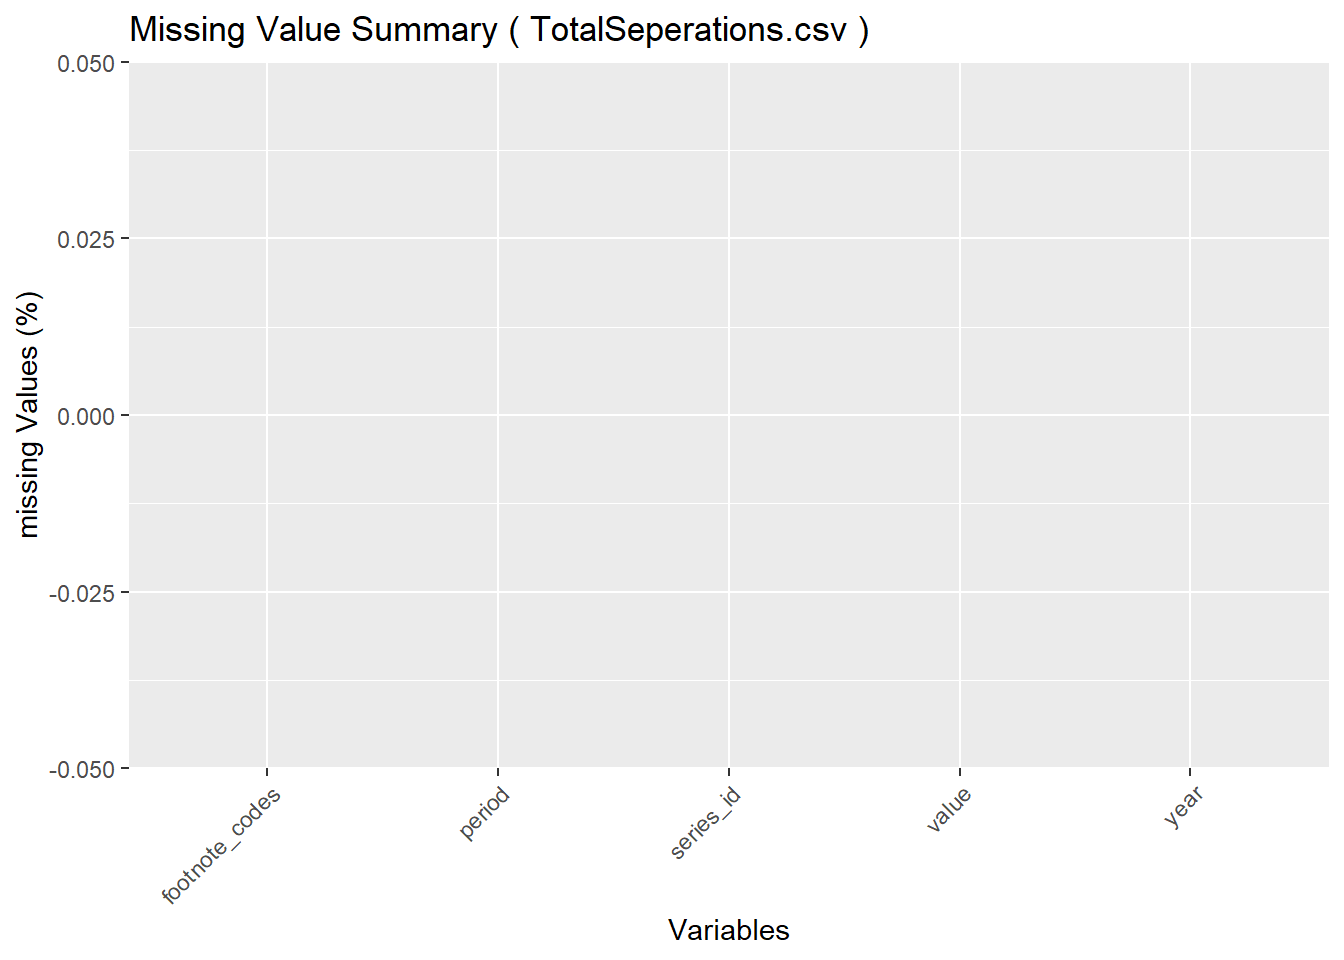
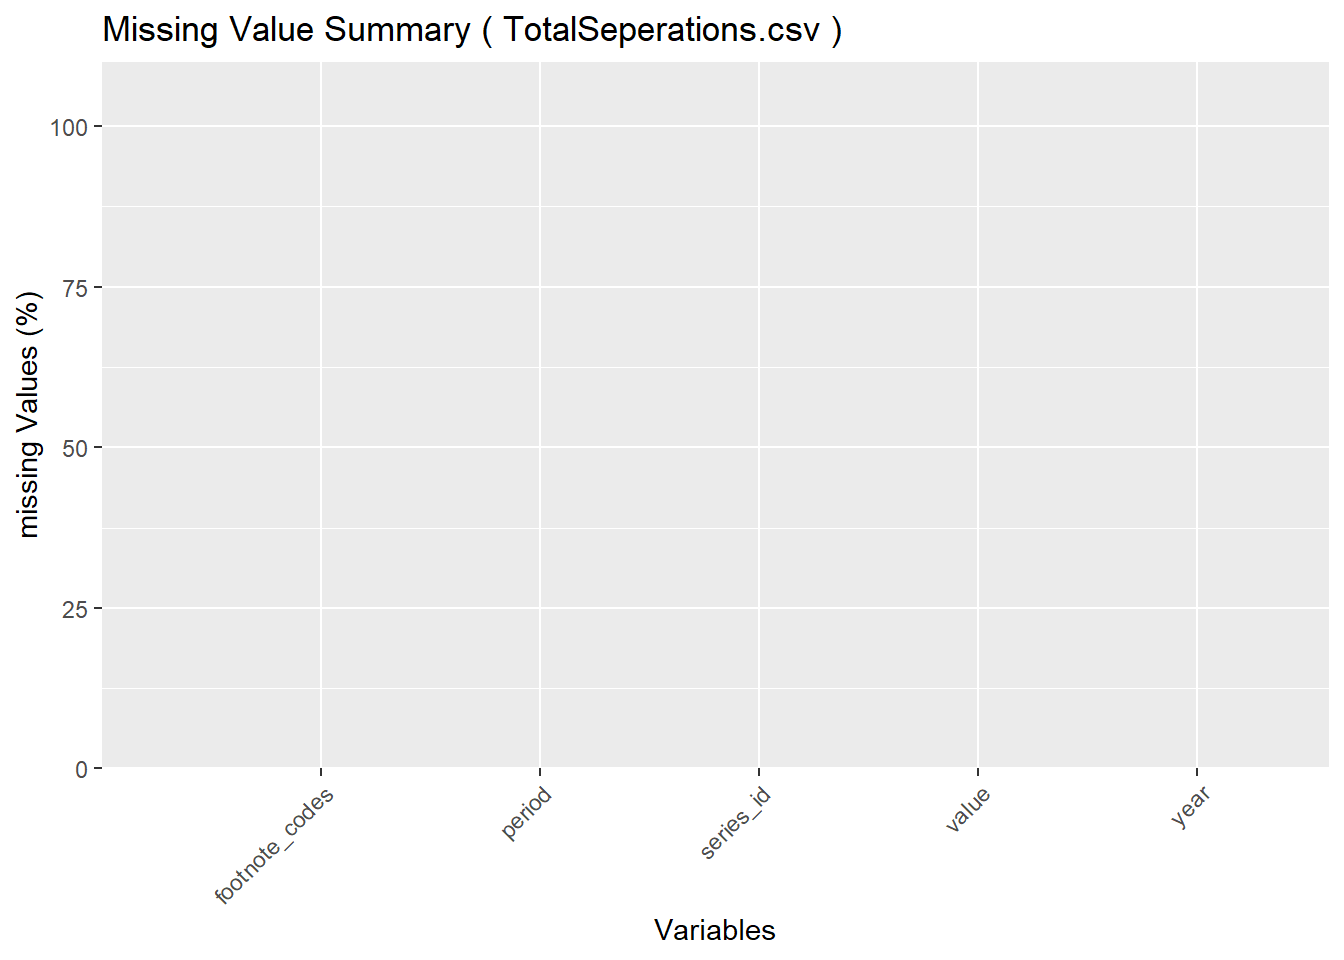
updated research plan and render

diff --git a/docs/data.html b/docs/data.html
@@ -273,23 +273,26 @@ pre > code.sourceCode > span > a:first-child::before { text-decoration: underlin
 <span id="cb3-6"><a href="#cb3-6" aria-hidden="true" tabindex="-1"></a>  data <span class="ot">&lt;-</span> <span class="fu">read.csv</span>(file)</span>
 <span id="cb3-7"><a href="#cb3-7" aria-hidden="true" tabindex="-1"></a></span>
 <span id="cb3-8"><a href="#cb3-8" aria-hidden="true" tabindex="-1"></a>  csv_file_name <span class="ot">&lt;-</span> <span class="fu">strsplit</span>(file, <span class="st">"/"</span>)[[<span class="dv">1</span>]][<span class="dv">3</span>]</span>
-<span id="cb3-9"><a href="#cb3-9" aria-hidden="true" tabindex="-1"></a></span>
-<span id="cb3-10"><a href="#cb3-10" aria-hidden="true" tabindex="-1"></a>  missing_summary <span class="ot">&lt;-</span> data <span class="sc">%&gt;%</span></span>
-<span id="cb3-11"><a href="#cb3-11" aria-hidden="true" tabindex="-1"></a>    <span class="fu">summarise_all</span>(<span class="sc">~</span> <span class="fu">mean</span>(<span class="fu">is.na</span>(.)) <span class="sc">*</span> <span class="dv">100</span>) <span class="sc">%&gt;%</span></span>
-<span id="cb3-12"><a href="#cb3-12" aria-hidden="true" tabindex="-1"></a>    <span class="fu">gather</span>(<span class="at">key =</span> <span class="st">"variable"</span>, <span class="at">value =</span> <span class="st">"missing_percentage"</span>) <span class="sc">%&gt;%</span></span>
-<span id="cb3-13"><a href="#cb3-13" aria-hidden="true" tabindex="-1"></a>    <span class="fu">arrange</span>(<span class="fu">desc</span>(missing_percentage))</span>
-<span id="cb3-14"><a href="#cb3-14" aria-hidden="true" tabindex="-1"></a></span>
-<span id="cb3-15"><a href="#cb3-15" aria-hidden="true" tabindex="-1"></a>  missing_value_graph <span class="ot">&lt;-</span> <span class="fu">ggplot</span>(missing_summary, <span class="fu">aes</span>(<span class="at">x =</span> <span class="fu">reorder</span>(variable, <span class="sc">-</span>missing_percentage), <span class="at">y =</span> missing_percentage)) <span class="sc">+</span></span>
-<span id="cb3-16"><a href="#cb3-16" aria-hidden="true" tabindex="-1"></a>    <span class="fu">geom_bar</span>(<span class="at">stat =</span> <span class="st">"identity"</span>, <span class="at">fill =</span> <span class="st">"skyblue"</span>) <span class="sc">+</span></span>
-<span id="cb3-17"><a href="#cb3-17" aria-hidden="true" tabindex="-1"></a>    <span class="fu">geom_text</span>(<span class="at">data =</span> <span class="fu">subset</span>(missing_summary, missing_percentage <span class="sc">!=</span> <span class="dv">0</span>),</span>
-<span id="cb3-18"><a href="#cb3-18" aria-hidden="true" tabindex="-1"></a>              <span class="fu">aes</span>(<span class="at">label =</span> <span class="fu">round</span>(missing_percentage, <span class="dv">1</span>)), <span class="at">vjust =</span> <span class="sc">-</span><span class="fl">0.5</span>, <span class="at">size =</span> <span class="dv">3</span>) <span class="sc">+</span></span>
-<span id="cb3-19"><a href="#cb3-19" aria-hidden="true" tabindex="-1"></a>    <span class="fu">labs</span>(<span class="at">title =</span> <span class="fu">paste</span>(<span class="st">"Missing Value Summary ("</span>, csv_file_name,<span class="st">")"</span>),</span>
-<span id="cb3-20"><a href="#cb3-20" aria-hidden="true" tabindex="-1"></a>         <span class="at">x =</span> <span class="st">"Variables"</span>,</span>
-<span id="cb3-21"><a href="#cb3-21" aria-hidden="true" tabindex="-1"></a>         <span class="at">y =</span> <span class="st">"missing Values (%)"</span>)<span class="sc">+</span></span>
-<span id="cb3-22"><a href="#cb3-22" aria-hidden="true" tabindex="-1"></a>    <span class="fu">theme</span>(<span class="at">axis.text.x =</span> <span class="fu">element_text</span>(<span class="at">angle =</span> <span class="dv">45</span>, <span class="at">hjust =</span> <span class="dv">1</span>))</span>
-<span id="cb3-23"><a href="#cb3-23" aria-hidden="true" tabindex="-1"></a></span>
-<span id="cb3-24"><a href="#cb3-24" aria-hidden="true" tabindex="-1"></a>  <span class="fu">print</span>(missing_value_graph )</span>
-<span id="cb3-25"><a href="#cb3-25" aria-hidden="true" tabindex="-1"></a>}</span></code><button title="Copy to Clipboard" class="code-copy-button"><i class="bi"></i></button></pre></div>
+<span id="cb3-9"><a href="#cb3-9" aria-hidden="true" tabindex="-1"></a>  <span class="co"># print(csv_file_name)</span></span>
+<span id="cb3-10"><a href="#cb3-10" aria-hidden="true" tabindex="-1"></a></span>
+<span id="cb3-11"><a href="#cb3-11" aria-hidden="true" tabindex="-1"></a>  missing_summary <span class="ot">&lt;-</span> data <span class="sc">%&gt;%</span></span>
+<span id="cb3-12"><a href="#cb3-12" aria-hidden="true" tabindex="-1"></a>    <span class="fu">summarise_all</span>(<span class="sc">~</span> <span class="fu">mean</span>(<span class="fu">is.na</span>(.)) <span class="sc">*</span> <span class="dv">100</span>) <span class="sc">%&gt;%</span></span>
+<span id="cb3-13"><a href="#cb3-13" aria-hidden="true" tabindex="-1"></a>    <span class="fu">gather</span>(<span class="at">key =</span> <span class="st">"variable"</span>, <span class="at">value =</span> <span class="st">"missing_percentage"</span>) <span class="sc">%&gt;%</span></span>
+<span id="cb3-14"><a href="#cb3-14" aria-hidden="true" tabindex="-1"></a>    <span class="fu">arrange</span>(<span class="fu">desc</span>(missing_percentage))</span>
+<span id="cb3-15"><a href="#cb3-15" aria-hidden="true" tabindex="-1"></a></span>
+<span id="cb3-16"><a href="#cb3-16" aria-hidden="true" tabindex="-1"></a>  missing_value_graph <span class="ot">&lt;-</span> <span class="fu">ggplot</span>(missing_summary, <span class="fu">aes</span>(<span class="at">x =</span> <span class="fu">reorder</span>(variable, <span class="sc">-</span>missing_percentage), <span class="at">y =</span> missing_percentage)) <span class="sc">+</span></span>
+<span id="cb3-17"><a href="#cb3-17" aria-hidden="true" tabindex="-1"></a>    <span class="fu">geom_bar</span>(<span class="at">stat =</span> <span class="st">"identity"</span>, <span class="at">fill =</span> <span class="st">"skyblue"</span>, <span class="at">width=</span><span class="fl">0.5</span>) <span class="sc">+</span></span>
+<span id="cb3-18"><a href="#cb3-18" aria-hidden="true" tabindex="-1"></a>    <span class="fu">geom_text</span>(<span class="at">data =</span> <span class="fu">subset</span>(missing_summary, missing_percentage <span class="sc">!=</span> <span class="dv">0</span>),</span>
+<span id="cb3-19"><a href="#cb3-19" aria-hidden="true" tabindex="-1"></a>              <span class="fu">aes</span>(<span class="at">label =</span> <span class="fu">round</span>(missing_percentage, <span class="dv">1</span>)), <span class="at">vjust =</span> <span class="sc">-</span><span class="fl">0.5</span>, <span class="at">size =</span> <span class="dv">3</span>) <span class="sc">+</span></span>
+<span id="cb3-20"><a href="#cb3-20" aria-hidden="true" tabindex="-1"></a>    <span class="fu">labs</span>(<span class="at">title =</span> <span class="fu">paste</span>(<span class="st">"Missing Value Summary ("</span>, csv_file_name,<span class="st">")"</span>),</span>
+<span id="cb3-21"><a href="#cb3-21" aria-hidden="true" tabindex="-1"></a>         <span class="at">x =</span> <span class="st">"Variables"</span>,</span>
+<span id="cb3-22"><a href="#cb3-22" aria-hidden="true" tabindex="-1"></a>         <span class="at">y =</span> <span class="st">"missing Values (%)"</span>)<span class="sc">+</span></span>
+<span id="cb3-23"><a href="#cb3-23" aria-hidden="true" tabindex="-1"></a>    <span class="fu">theme</span>(<span class="at">axis.text.x =</span> <span class="fu">element_text</span>(<span class="at">angle =</span> <span class="dv">45</span>, <span class="at">hjust =</span> <span class="dv">1</span>))<span class="sc">+</span></span>
+<span id="cb3-24"><a href="#cb3-24" aria-hidden="true" tabindex="-1"></a>    <span class="fu">expand_limits</span>(<span class="at">x =</span> <span class="dv">0</span>, <span class="at">y =</span> <span class="dv">110</span>)<span class="sc">+</span></span>
+<span id="cb3-25"><a href="#cb3-25" aria-hidden="true" tabindex="-1"></a>    <span class="fu">scale_y_continuous</span>(<span class="at">expand =</span><span class="fu">c</span>(<span class="dv">0</span>,<span class="dv">0</span>))</span>
+<span id="cb3-26"><a href="#cb3-26" aria-hidden="true" tabindex="-1"></a></span>
+<span id="cb3-27"><a href="#cb3-27" aria-hidden="true" tabindex="-1"></a>  <span class="fu">print</span>(missing_value_graph )</span>
+<span id="cb3-28"><a href="#cb3-28" aria-hidden="true" tabindex="-1"></a>}</span></code><button title="Copy to Clipboard" class="code-copy-button"><i class="bi"></i></button></pre></div>
 </details>
 <div class="cell-output-display">
 <p><img src="data_files/figure-html/unnamed-chunk-1-1.png" class="img-fluid" width="672"></p>

diff --git a/docs/index.html b/docs/index.html
@@ -8,7 +8,7 @@
 
 <meta name="author" content="Mohsin Chougale (mc5491)">
 <meta name="author" content="Shikhar Johri (sj3327)">
-<meta name="dcterms.date" content="2023-11-30">
+<meta name="dcterms.date" content="2023-12-01">
 
 <title>US Job Market Analysis</title>
 <style>
@@ -170,7 +170,7 @@ ul.task-list li input[type="checkbox"] {
     <div>
     <div class="quarto-title-meta-heading">Published</div>
     <div class="quarto-title-meta-contents">
-      <p class="date">November 30, 2023</p>
+      <p class="date">December 1, 2023</p>
     </div>
   </div>
   
